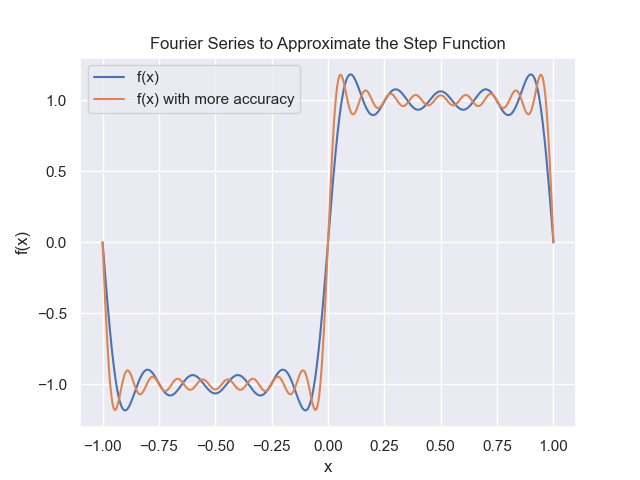
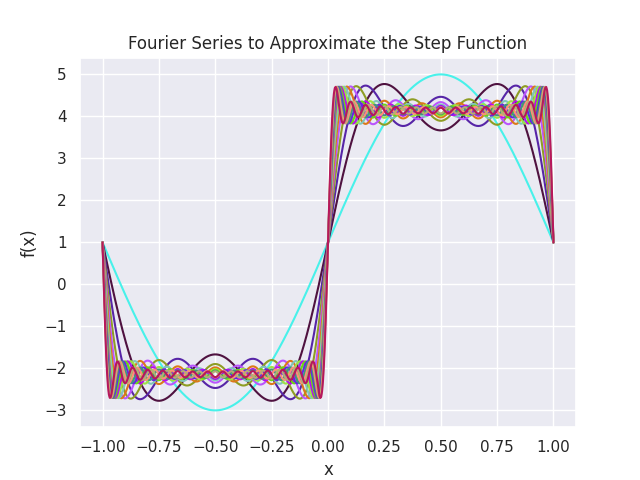
general

diff --git a/06-Fourier_Transform.py b/06-Fourier_Transform.py
@@ -4,29 +4,31 @@ import seaborn as sns
 from scipy.fftpack import fft
 sns.set()
 
+#  Site Time intervals
 limit = 5
 i = 0.001
 t = np.arange(1, limit, i)
 
 # create composite signal a(t)
 f = 1
-a = 3*np.sin(2*np.pi*f*t)
-f += 3
-a += np.sin(2*np.pi*f*t)
-f += 3
-a += 0.5 * np.sin(2*np.pi*f*t)
+a = 1
+while f < 12:
+    a += (f ^ 2)*np.sin(2*np.pi*f*t)
+    f += 4
 
 # Analysing Function dot product g(t)
-i = 1j
+i = 0 + 1j
 f = 1
-g1 = a*np.exp(-i*2*np.pi*f*t)
-f += 3
-g2 = a*np.exp(-i*2*np.pi*f*t)
-f += 3
-g3 = a*np.exp(-i*2*np.pi*f*t)
+while f < 12:
+    g = a*np.exp(-i*2*np.pi*f*t)
+    col = (np.random.random(), np.random.random(), np.random.random())
+    plt.plot(g.real, g.imag, color=col, label="Original Signal")
+    f += 5
 
-# Draw with analysing function
-f = 1
+plt.title('Function g(f)')
+plt.ylabel('Imaginary')
+plt.xlabel('Real')
+plt.show()
 
 # FFT
 sr = 2000
@@ -36,19 +38,9 @@ n = np.arange(N)
 T = N/sr
 freq = n/T
 
-plt.figure(2)
-plt.title('Function g(f)')
-plt.ylabel('Imaginary')
-plt.xlabel('Real')
-plt.plot(g1.real, g1.imag, color='blue', label="Original Signal")
-plt.plot(g2.real, g2.imag, color='red', label="Original Signal")
-plt.plot(g3.real, g3.imag, color='green', label="Original Signal")
-
 plt.figure(figsize=(12, 6))
 plt.subplot(121)
-plt.stem(freq, np.abs(X), 'b', \
-         markerfmt=" ", basefmt="-b")
-
+plt.stem(freq, np.abs(X), 'b', markerfmt=" ", basefmt="-b")
 plt.xlabel('Freq (Hz)')
 plt.ylabel('FFT Amplitude |X(freq)|')
 plt.xlim(0, 20)

diff --git a/05-Fourier Series_Step_Funtion_2.py b/05-Fourier Series_Step_Funtion_2.py
@@ -1,0 +1,22 @@
+# Fourier Series to Approximate the Step Function
+
+import numpy as np
+import matplotlib.pylab as plt
+import seaborn as sns
+sns.set()
+
+x = np.linspace(-1, 1, 500)
+y = 1
+i = 1
+
+while i < 31:
+    y += 4*np.sin(i*np.pi*x)/i
+    col = (np.random.random(), np.random.random(), np.random.random())
+    plt.plot(x, y, color=col)
+    i += 2
+
+plt.title('Fourier Series to Approximate the Step Function')
+plt.xlabel('x')
+plt.ylabel('f(x)')
+plt.savefig('05-Fourier Series2.png')
+plt.show()

diff --git a/05-Fourier Series.py b/05-Fourier Series.py
@@ -17,5 +17,5 @@ plt.title('Fourier Series to Approximate the Step Function')
 plt.xlabel('x')
 plt.ylabel('f(x)')
 plt.legend(['f(x) ', 'f(x) with more accuracy'])
-plt.savefig('05-Fourier Series.png')
+plt.savefig('05-Fourier Series1.png')
 plt.show()
